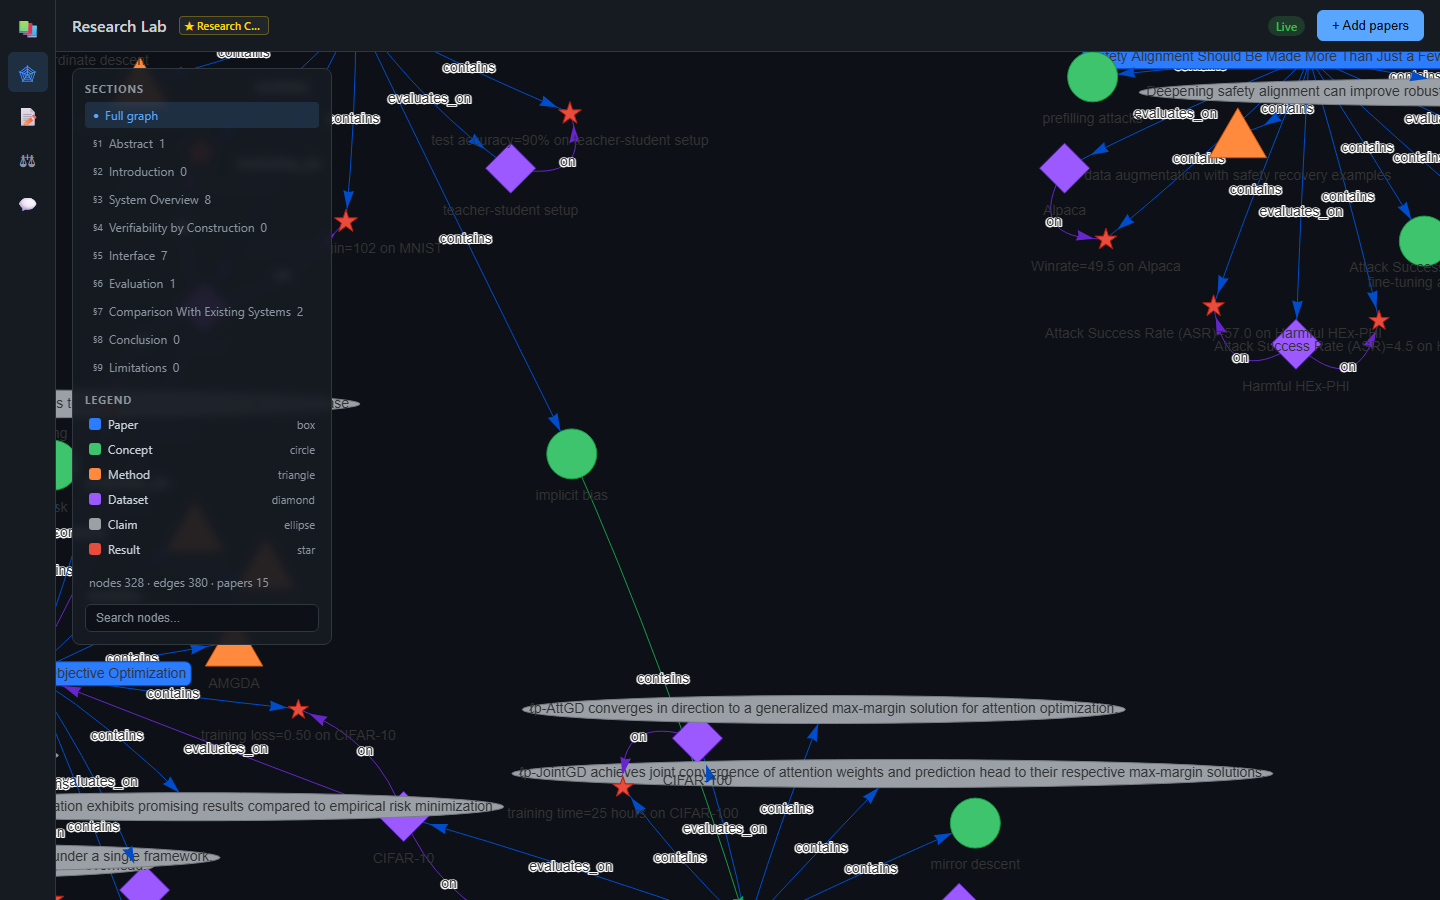
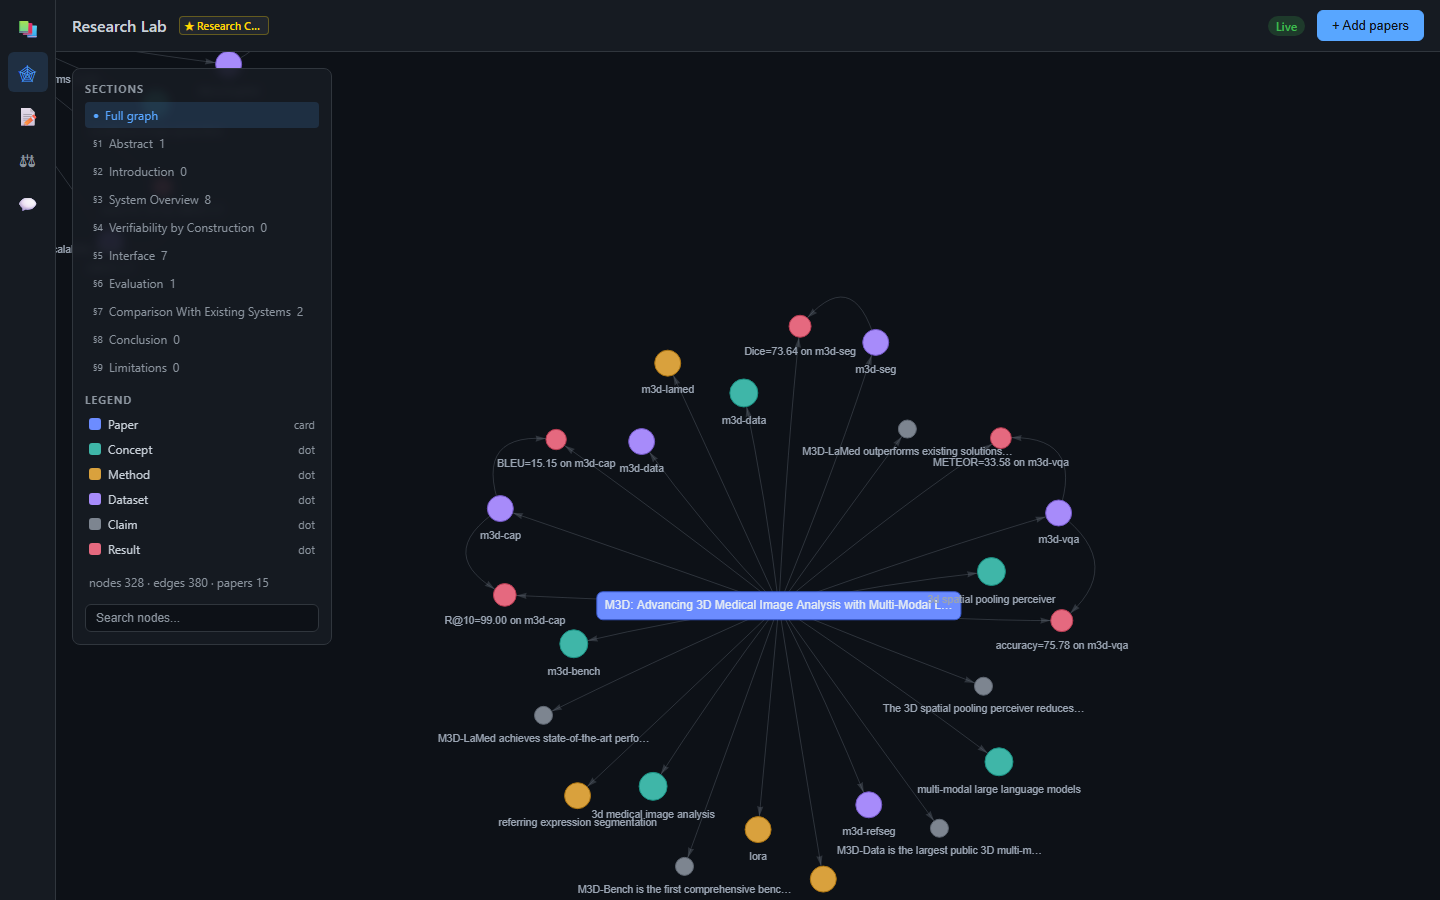
feat(lab-ui): premium graph styling - refined palette, uniform dots, quiet edges
Papers are rounded indigo label cards (strength band as border); every entity
kind is a dot in a desaturated jewel tone (teal/amber/violet/slate/rose) sized
by kind; entity labels truncated with full text on hover; edge relation labels
removed (hover title + detail panel instead); co_mentioned edges dashed.
viz.py standalone view kept in sync.

diff --git a/research_companion/lab/static/js/graph/mapping.js b/research_companion/lab/static/js/graph/mapping.js
@@ -1,30 +1,53 @@
 /**
- * graph/mapping.js — kind→color/shape maps from viz.py; nodeToVis, edgeToVis.
+ * graph/mapping.js — kind→color/shape/size maps; nodeToVis, edgeToVis.
  * DOM-free; used by F2 (graph view) and the Library legend.
+ *
+ * Styling philosophy (v0.2.1 "premium" pass): papers are rounded label cards;
+ * every entity kind is a uniform dot differentiated by a desaturated jewel-tone
+ * palette and size. Edges carry no always-on text labels (relation lives in the
+ * hover title and the edge-click detail panel) so dense graphs stay readable.
  */
 
-// Colors exactly as defined in research_companion/viz.py _KIND_COLORS
+// Desaturated jewel tones tuned for the #0d1117 canvas.
 export const KIND_COLORS = {
-  paper:   '#2b7cff',
-  concept: '#3ec46d',
-  method:  '#ff8a3d',
-  dataset: '#9b59ff',
-  claim:   '#9aa0a6',
-  result:  '#e74c3c',
+  paper:   '#6c8cff',
+  concept: '#3fb6a8',
+  method:  '#d9a13d',
+  dataset: '#a78bfa',
+  claim:   '#7d8590',
+  result:  '#e5697f',
 };
 
-// Shapes exactly as defined in research_companion/viz.py _KIND_SHAPES
+// Papers are cards; all entities are dots (differentiated by color + size).
 export const KIND_SHAPES = {
   paper:   'box',
   concept: 'dot',
-  method:  'triangle',
-  dataset: 'diamond',
-  claim:   'ellipse',
-  result:  'star',
+  method:  'dot',
+  dataset: 'dot',
+  claim:   'dot',
+  result:  'dot',
 };
 
-const DEFAULT_COLOR = '#8b949e';
+// Dot radius per kind (papers size via their label box).
+export const KIND_SIZES = {
+  concept: 14,
+  method:  13,
+  dataset: 13,
+  claim:   9,
+  result:  10,
+};
+
+const DEFAULT_COLOR = '#7d8590';
 const DEFAULT_SHAPE = 'dot';
+const DEFAULT_SIZE = 11;
+const ENTITY_LABEL_MAX = 42;
+const ENTITY_FONT = { color: '#9aa4b2', size: 10.5 };
+const PAPER_FONT = { color: '#e6edf3', size: 12, face: 'arial', bold: { color: '#e6edf3' } };
+
+function truncateLabel(s, max = ENTITY_LABEL_MAX) {
+  if (!s || s.length <= max) return s;
+  return s.slice(0, max - 1).trimEnd() + '…';
+}
 
 /**
  * Convert an API graph node to a vis-network node descriptor.
@@ -36,15 +59,39 @@ export function nodeToVis(node) {
   const kind = node.kind || 'unknown';
   const color = KIND_COLORS[kind] || DEFAULT_COLOR;
   const shape = KIND_SHAPES[kind] || DEFAULT_SHAPE;
+  const fullLabel = node.label || node.id;
 
   const vis = {
     id: node.id,
-    label: node.label || node.id,
     kind,
-    color,
     shape,
-    title: node.label || node.id,
+    title: fullLabel,
   };
+
+  if (kind === 'paper') {
+    vis.label = truncateLabel(fullLabel, 60);
+    vis.font = PAPER_FONT;
+    vis.margin = 8;
+    // Strength band as the card border when known (string color otherwise —
+    // vis derives a matching border automatically).
+    const strengthColor = node.strength && node.strength.color;
+    if (strengthColor) {
+      vis.color = {
+        background: color,
+        border: strengthColor,
+        highlight: { background: color, border: strengthColor },
+        hover: { background: color, border: strengthColor },
+      };
+      vis.borderWidth = 2;
+    } else {
+      vis.color = color;
+    }
+  } else {
+    vis.label = truncateLabel(fullLabel);
+    vis.color = color;
+    vis.size = KIND_SIZES[kind] || DEFAULT_SIZE;
+    vis.font = ENTITY_FONT;
+  }
 
   // Carry extra attrs for the info panel
   if (node.attrs && typeof node.attrs === 'object') {
@@ -56,17 +103,22 @@ export function nodeToVis(node) {
 
 /**
  * Convert an API graph edge to a vis-network edge descriptor.
+ * No always-on text label; the relation stays available on hover (`title`)
+ * and in the edge-click detail panel.
  *
  * @param {{ from: string, to: string, relation: string, weight?: number }} edge
  * @returns {object}  vis-network edge options
  */
 export function edgeToVis(edge) {
+  const relation = edge.relation || '';
   return {
     from: edge.from,
     to: edge.to,
-    label: edge.relation || '',
-    title: edge.relation || '',
+    relation,
+    title: relation,
     width: 1 + 0.3 * ((edge.weight || 1) - 1),
-    arrows: 'to',
+    color: { color: 'rgba(110,118,129,0.35)', highlight: 'rgba(139,148,158,0.8)' },
+    arrows: { to: { enabled: true, scaleFactor: 0.5 } },
+    dashes: relation === 'co_mentioned' ? [4, 4] : false,
   };
 }

diff --git a/research_companion/lab/static/js/graph/graphview.js b/research_companion/lab/static/js/graph/graphview.js
@@ -412,13 +412,14 @@ export function applyDelta(delta, draftPaperId = null) {
   const visNodes = newNodes.map(n => {
     const v = nodeToVis(n);
     v.sections = n.sections || [];
-    // Flash styling
+    // Flash styling (v.color may be a string or a {background,...} object)
+    const bg = typeof v.color === 'string' ? v.color : (v.color && v.color.background);
     v.borderWidth = 3;
     v.color = {
       border: '#58a6ff',
-      background: v.color,
-      highlight: { border: '#58a6ff', background: v.color },
-      hover: { border: '#58a6ff', background: v.color },
+      background: bg,
+      highlight: { border: '#58a6ff', background: bg },
+      hover: { border: '#58a6ff', background: bg },
     };
     v.size = (v.size || 15) * 1.4;
 

diff --git a/research_companion/lab/static/js/views/graph.js b/research_companion/lab/static/js/views/graph.js
@@ -340,12 +340,12 @@ function _readUrlSection() {
 // ---------------------------------------------------------------------------
 
 const KIND_SHAPE_LABELS = {
-  paper:   'box',
-  concept: 'circle',
-  method:  'triangle',
-  dataset: 'diamond',
-  claim:   'ellipse',
-  result:  'star',
+  paper:   'card',
+  concept: 'dot',
+  method:  'dot',
+  dataset: 'dot',
+  claim:   'dot',
+  result:  'dot',
 };
 
 function _renderLegend(container) {

diff --git a/research_companion/viz.py b/research_companion/viz.py
@@ -23,21 +23,24 @@ import networkx as nx
 from research_companion.graph import graph_stats, load_graph
 from research_companion.store import graph_html_path
 
+# Desaturated jewel tones tuned for the dark canvas; papers are label cards,
+# every entity kind is a dot (differentiated by color) — kept in sync with
+# research_companion/lab/static/js/graph/mapping.js.
 _KIND_COLORS = {
-    "paper":   "#2b7cff",
-    "concept": "#3ec46d",
-    "method":  "#ff8a3d",
-    "dataset": "#9b59ff",
-    "claim":   "#9aa0a6",
-    "result":  "#e74c3c",
+    "paper":   "#6c8cff",
+    "concept": "#3fb6a8",
+    "method":  "#d9a13d",
+    "dataset": "#a78bfa",
+    "claim":   "#7d8590",
+    "result":  "#e5697f",
 }
 _KIND_SHAPES = {
     "paper":   "box",
     "concept": "dot",
-    "method":  "triangle",
-    "dataset": "diamond",
-    "claim":   "ellipse",
-    "result":  "star",
+    "method":  "dot",
+    "dataset": "dot",
+    "claim":   "dot",
+    "result":  "dot",
 }
 
 
@@ -96,7 +99,7 @@ HTML_TEMPLATE = """<!doctype html>
     const data = { nodes: new vis.DataSet(NODES), edges: new vis.DataSet(EDGES) };
     const opts = {
       nodes: { font: { color: '#e6e6e6', size: 12 }, borderWidth: 1 },
-      edges: { color: { color: '#3a3d44', highlight: '#7aa9ff' }, smooth: { type: 'continuous' }, arrows: 'to' },
+      edges: { color: { color: 'rgba(110,118,129,0.35)', highlight: 'rgba(139,148,158,0.8)' }, smooth: { type: 'continuous' }, arrows: { to: { enabled: true, scaleFactor: 0.5 } } },
       physics: { stabilization: { iterations: 200 }, barnesHut: { gravitationalConstant: -3000, springLength: 120 } },
       interaction: { hover: true, tooltipDelay: 150 },
     };
@@ -158,12 +161,14 @@ def _vis_nodes(G: nx.Graph) -> list[dict]:
 def _vis_edges(G: nx.Graph) -> list[dict]:
     out: list[dict] = []
     for u, v, data in G.edges(data=True):
+        relation = data.get("relation", "")
+        # No always-on text label (clutter); the relation stays on hover.
         out.append({
             "from": u,
             "to": v,
-            "label": data.get("relation", ""),
-            "title": data.get("relation", ""),
+            "title": relation,
             "width": 1 + 0.3 * (data.get("weight", 1) - 1),
+            "dashes": [4, 4] if relation == "co_mentioned" else False,
         })
     return out
 
